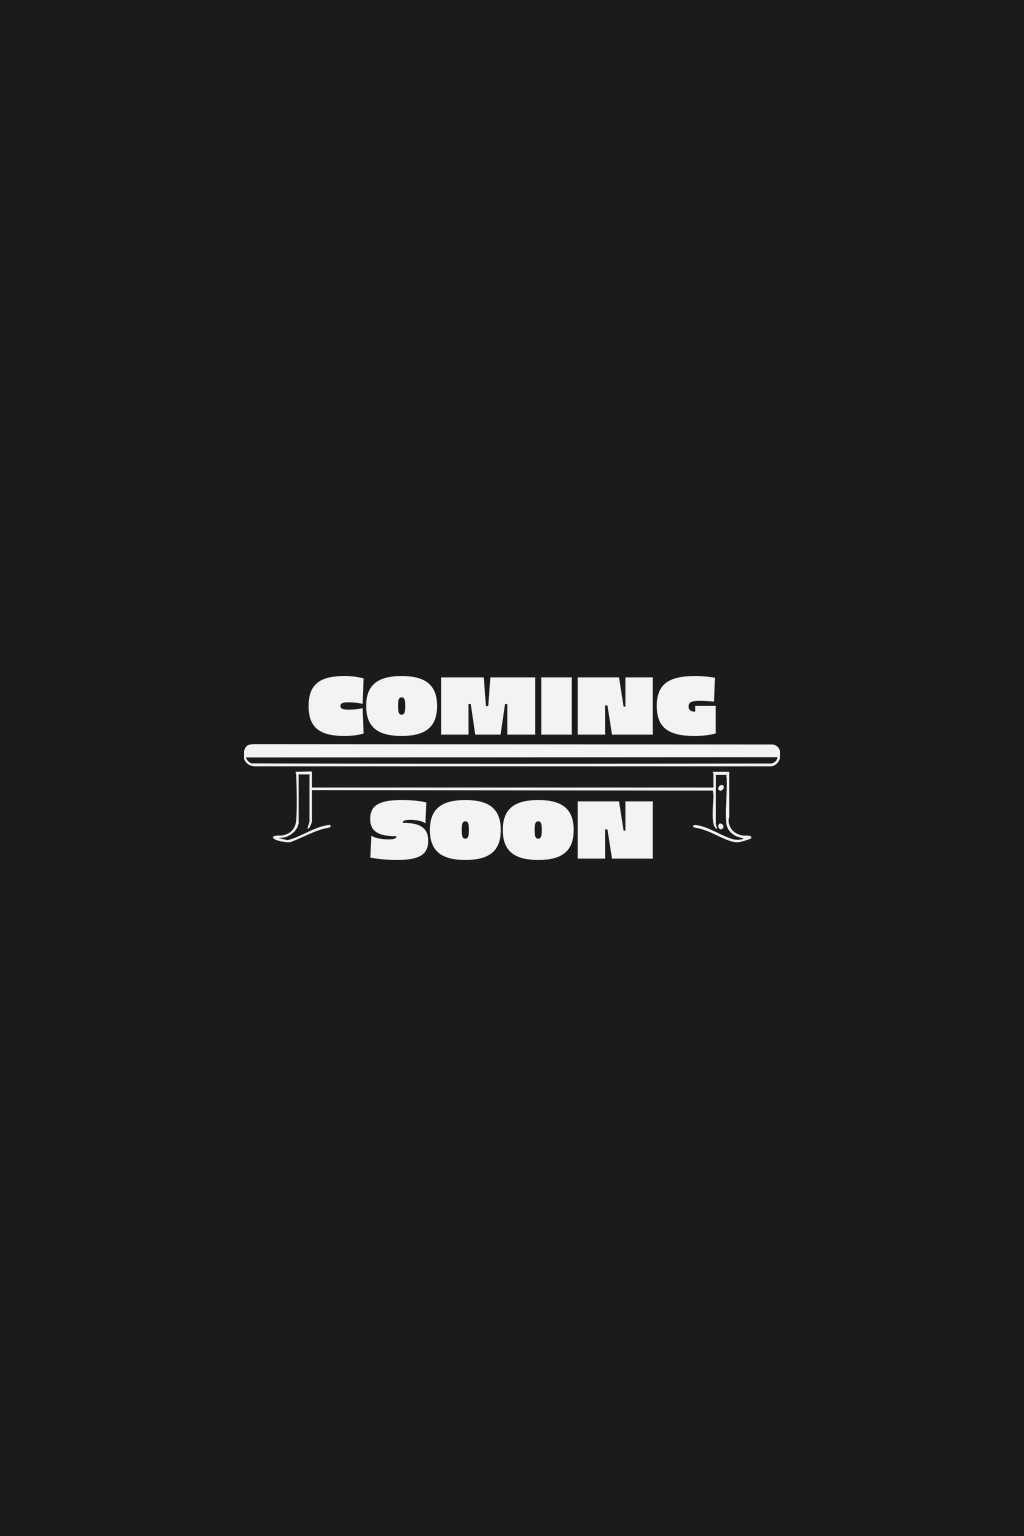
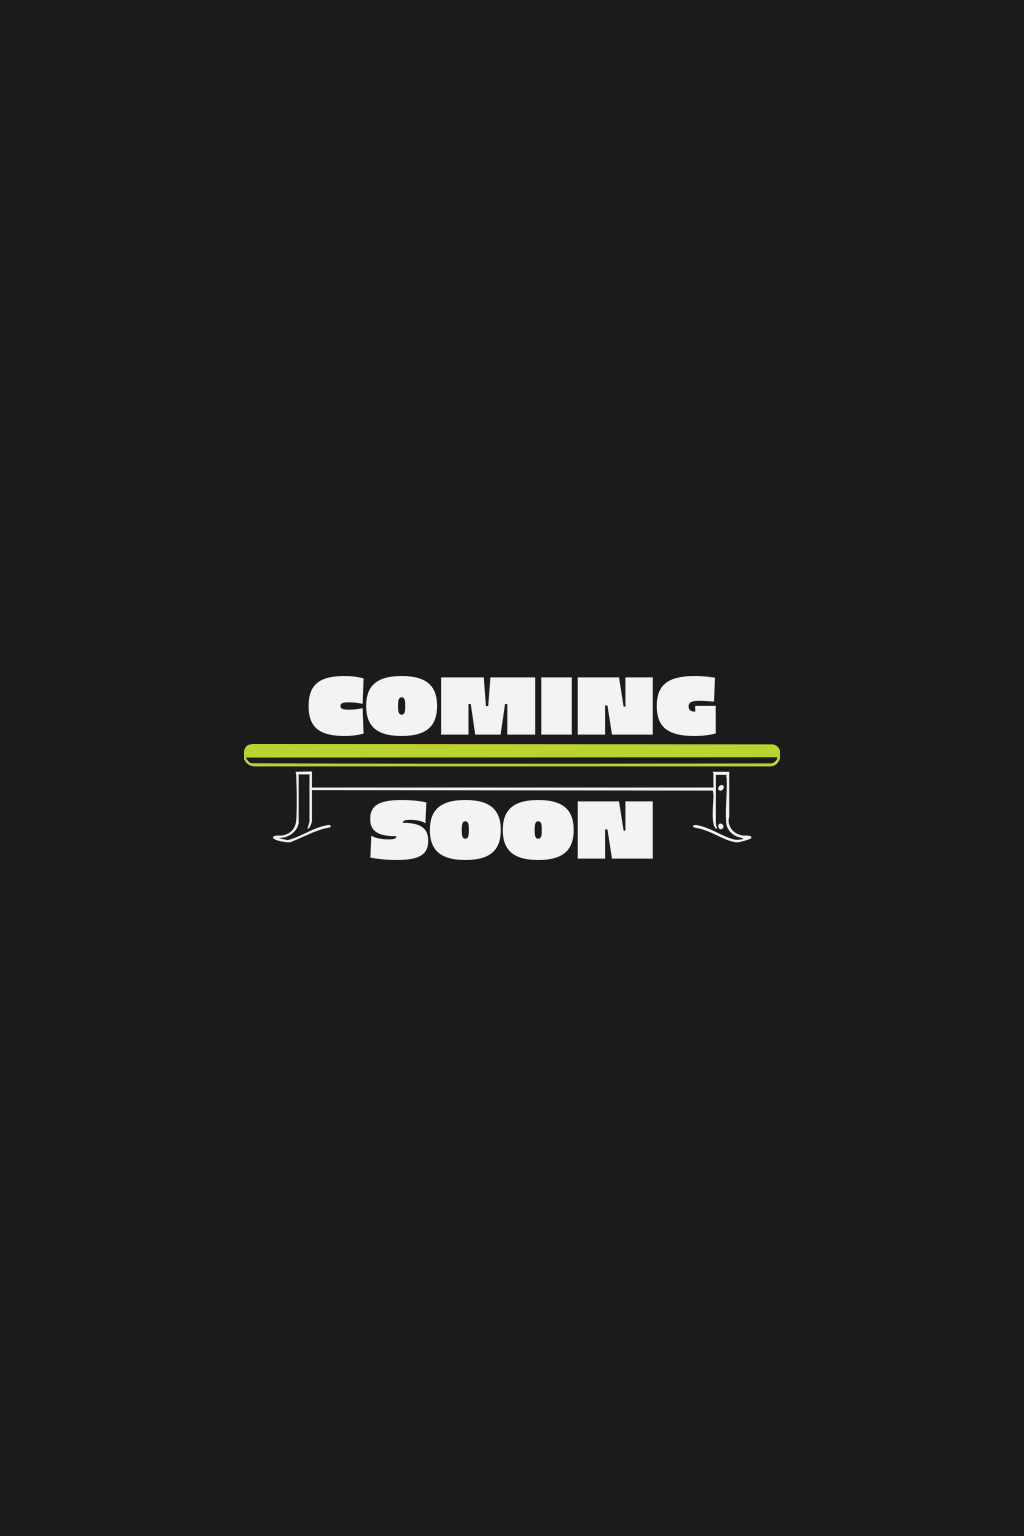
2.0.0 Adjust button colors; Stop About line wrap

Changed region(s): [[0.2188, 0.4688, 0.7812, 0.5]]

diff --git a/src/App.css b/src/App.css
@@ -102,17 +102,13 @@ a:active {
 }
 @media only screen and (min-width: 800px) {
   .home-about {
-    /* font-size: 2rem;
-    display: flex;
-    align-items: center;
-    gap: 2rem;
-    max-width: 100%; */
+    margin-top: 3rem;
+    max-width: 100%;
   }
 }
 .home-aboutHeading {
   margin: 1rem auto 1.6rem;
   max-width: 37rem;
-  /* max-width: 20rem; */
 }
 .home-aboutHeading > img {
   width: 100%;
@@ -123,7 +119,17 @@ a:active {
 .home-contactButtons > a {
   margin: 0 0.5rem;
   padding: 1.5rem 1rem 1rem;
-  border: none;
+  border-color: transparent;
+  color: var(--clr-4);
+}
+@media only screen and (hover: hover) {
+  .home-contactButtons > a:hover {
+    background: transparent;
+    border: 2px solid var(--clr-1);
+  }
+  .home-contactButtons > a:active {
+    background: var(--clr-1);
+  }
 }
 .home-contactButtons > a > i {
   position: relative;
@@ -133,12 +139,6 @@ a:active {
   width: 4.5rem;
   text-align: center;
   font-size: 4rem;
-  color: var(--clr-4);
-}
-@media only screen and (min-width: 800px) {
-  .home-contactButtons > a > i {
-    /* top: 0.34rem; */
-  }
 }
 /* ABOUT END */
 

diff --git a/README.md b/README.md
@@ -6,21 +6,21 @@ Used React for this in anticipation of the site becoming much bigger in time. Ho
 
 #### TODO NEXT
 
-- adjust contact button colors
-
 #### TODO LATER
 
 ##### Features
-
-- add other image to footer
 
 ##### Behavior
 
 ##### Style
 
-- try grid of four
-
 #### CHANGELOG
+
+_2.0.0_
+
+- make About line a single line without wrapping
+- adjust contact button colors
+- clean up comments
 
 _1.3.3_
 
@@ -34,6 +34,8 @@ _1.3.2_
 - add compressed poster images
 - adjust contact button sizes on mobile
 - add heading for about section
+- add other image to footer
+- put four on grid
 
 _1.3.1_
 
